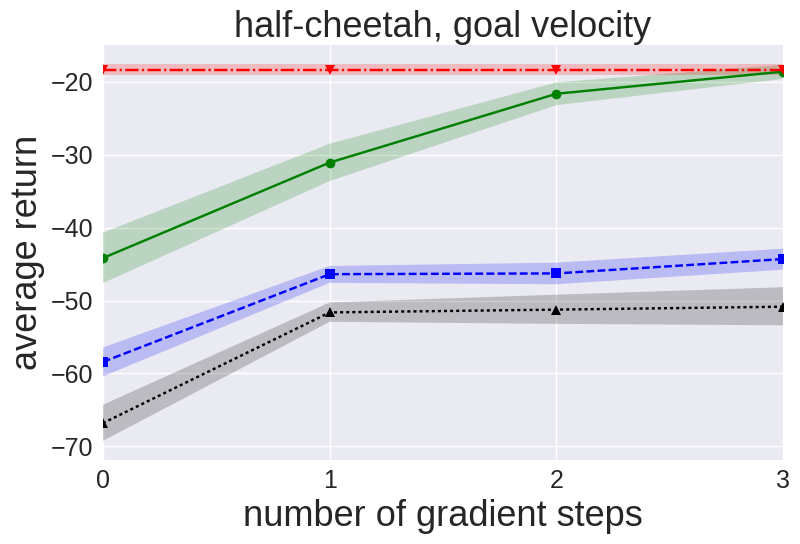
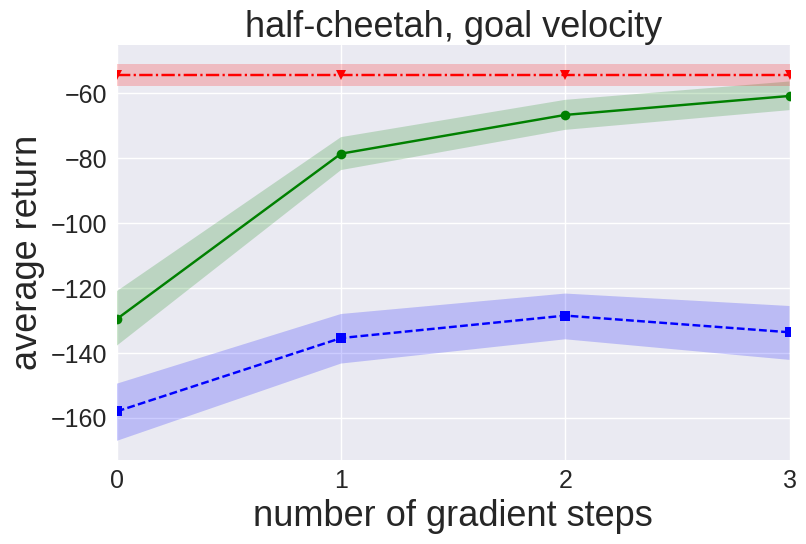
updated icml results

diff --git a/icml/make_cheetah_plots.py b/icml/make_cheetah_plots.py
@@ -39,7 +39,7 @@ with open(random_pkl, 'rb') as f:
 legend=False
 sns.tsplot(time=range(n_itr), data=maml_data[:,:n_itr], color='g', linestyle='-', marker='o', condition='MAML (ours)', legend=legend)
 sns.tsplot(time=range(n_itr), data=pretrain_data[:,:n_itr], color='b', linestyle='--', marker='s', condition='pretrained', legend=legend)
-sns.tsplot(time=range(n_itr), data=random_data[:,:n_itr], color='k', linestyle=':', marker='^', condition='random', legend=legend)
+#sns.tsplot(time=range(n_itr), data=random_data[:,:n_itr], color='k', linestyle=':', marker='^', condition='random', legend=legend)
 sns.tsplot(time=range(n_itr), data=oracle_data[:,:n_itr], color='r', linestyle='-.', marker='v', condition='oracle', legend=legend)
 ax = fig.gca()
 
